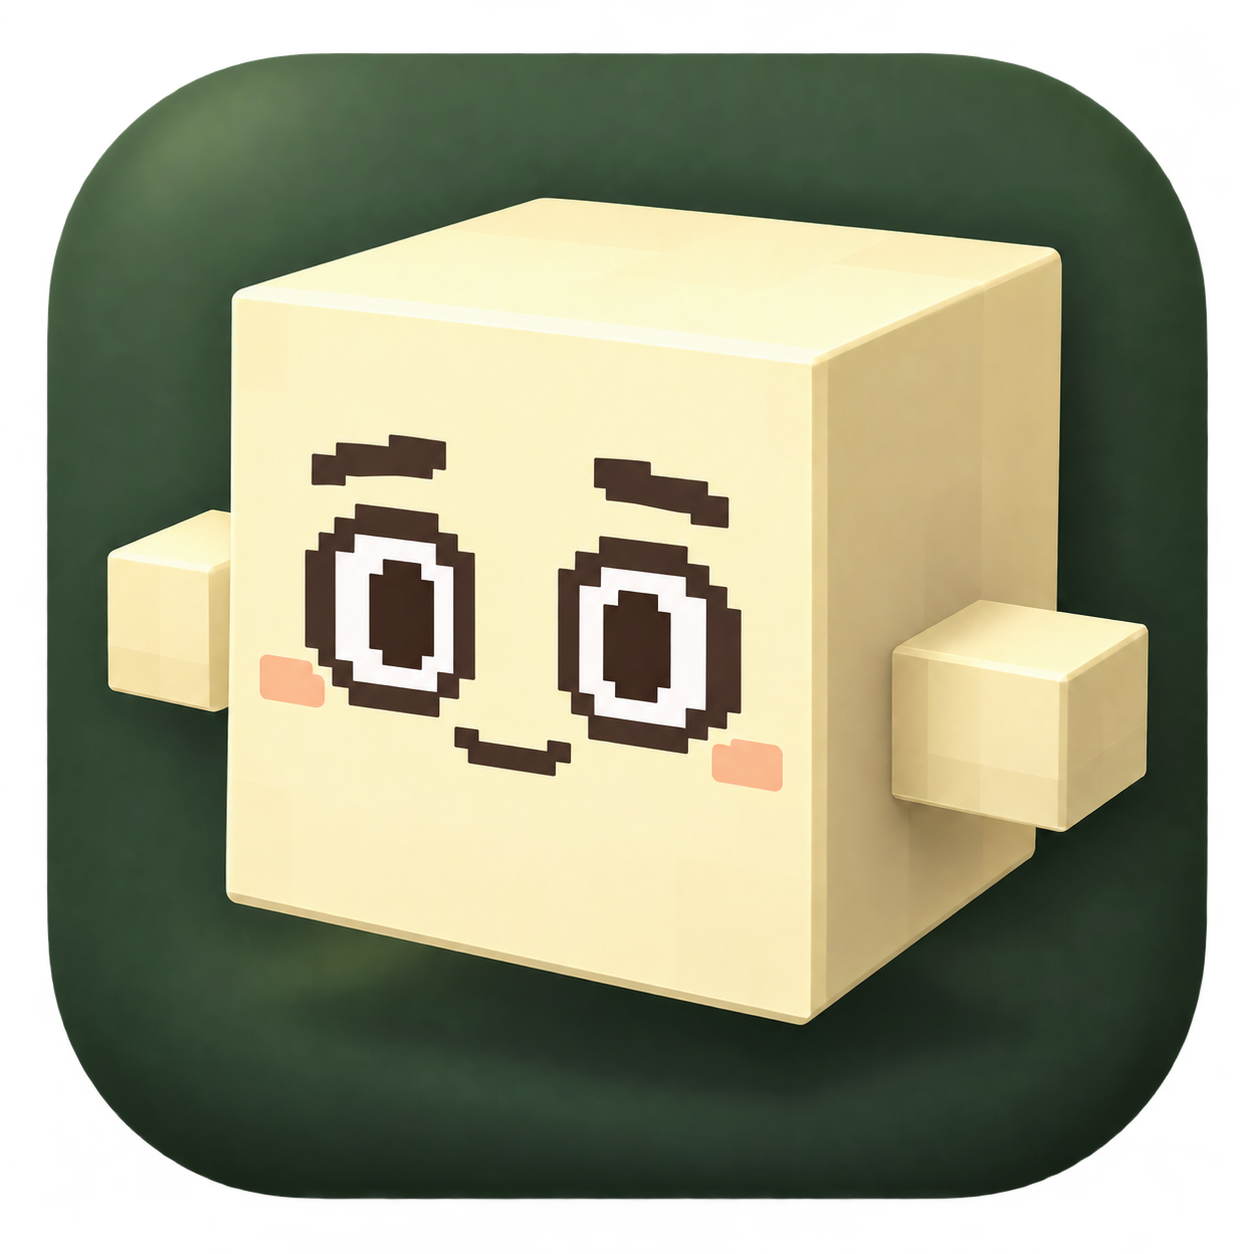
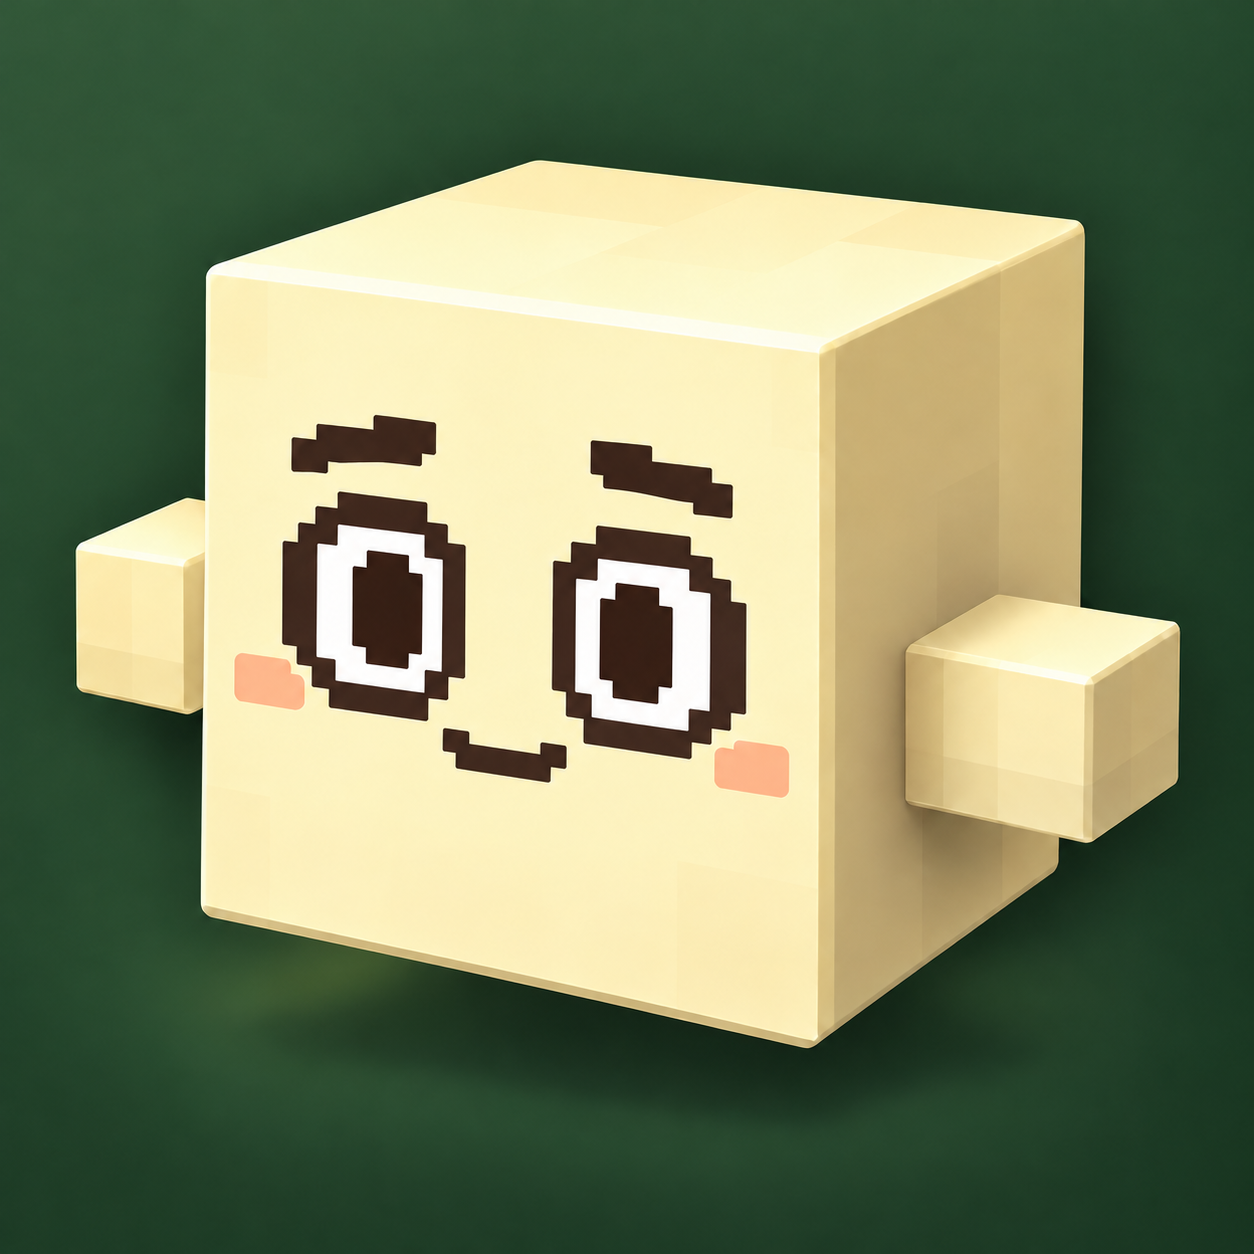
管理アプリの署名を固定してアイコンの余白をなくす

diff --git a/apps/dogido-server-manager/Tools/build_app.py b/apps/dogido-server-manager/Tools/build_app.py
@@ -3,14 +3,40 @@ import argparse
 from pathlib import Path
 import plistlib
 import platform
+import re
 import shutil
 import subprocess
 import tempfile
 
 SOURCE = Path(__file__).resolve().parents[1]
+LOCAL_SIGNING_IDENTITY = "Dogido Local Code Signing"
 
 
-def build(project, destination):
+def resolve_signing_identity(name, output):
+    identities = dict(re.findall(r'\)\s+([0-9A-Fa-f]{40})\s+"([^"]+)"', output))
+    matches = [fingerprint for fingerprint, label in identities.items()
+               if name == label or name.upper() == fingerprint.upper()]
+    if len(matches) != 1:
+        raise SystemExit(
+            f"署名用の証明書を一意に確認できません: {name}。"
+            "キーチェーンアクセスでコード署名用の証明書を一度作成してください。"
+            "一時的な試用のみ --ad-hoc を指定できますが、更新後にmacOSのアクセス確認が再表示されます。"
+        )
+    return matches[0]
+
+
+def signing_key(name, ad_hoc=False):
+    if ad_hoc:
+        print("一時署名でビルドします。更新後にmacOSのアクセス許可が再確認される場合があります。")
+        return "-"
+    result = subprocess.run(
+        ["security", "find-identity", "-p", "codesigning"],
+        check=True, capture_output=True, text=True,
+    )
+    return resolve_signing_identity(name, result.stdout)
+
+
+def build(project, destination, identity=LOCAL_SIGNING_IDENTITY, ad_hoc=False):
     project = project.expanduser().resolve()
     destination = destination.expanduser().resolve()
     if destination.exists():
@@ -19,6 +45,7 @@ def build(project, destination):
                  "dogido-rust/src/server/utterance-view.js"):
         if not (project / path).is_file():
             raise SystemExit(f"本体のファイルがありません: {path}")
+    identity = signing_key(identity, ad_hoc)
     with tempfile.TemporaryDirectory(prefix="dogido-manager-build-") as temporary:
         work = Path(temporary)
         app = work / "ドギド サーバー.app"
@@ -42,12 +69,12 @@ def build(project, destination):
                     "sips", "-z", str(pixels), str(pixels),
                     str(SOURCE / "Resources/dogido-server-icon.png"), "--out", str(iconset / name),
                 ], check=True, stdout=subprocess.DEVNULL)
-        subprocess.run(["iconutil", "-c", "icns", str(iconset), "-o", str(resources / "DogidoServer.icns")], check=True)
+        subprocess.run(["iconutil", "-c", "icns", str(iconset), "-o", str(resources / "DogidoServer-v2.icns")], check=True)
         info = {
             "CFBundleName": "ドギド サーバー", "CFBundleDisplayName": "ドギド サーバー",
             "CFBundleIdentifier": "local.dogido.server-manager", "CFBundleExecutable": "DogidoServerManager",
-            "CFBundlePackageType": "APPL", "CFBundleShortVersionString": "0.1.0", "CFBundleVersion": "1",
-            "CFBundleIconFile": "DogidoServer.icns",
+            "CFBundlePackageType": "APPL", "CFBundleShortVersionString": "0.1.1", "CFBundleVersion": "2",
+            "CFBundleIconFile": "DogidoServer-v2.icns",
             "LSMinimumSystemVersion": "13.0", "NSHighResolutionCapable": True,
             "NSAppTransportSecurity": {"NSAllowsLocalNetworking": True},
             "NSMicrophoneUsageDescription": "ドギドの音声入力で、プレイヤーの声を認識するためにマイクを使います。",
@@ -55,7 +82,7 @@ def build(project, destination):
             "DogidoProjectRoot": str(project),
         }
         (app / "Contents/Info.plist").write_bytes(plistlib.dumps(info))
-        subprocess.run(["codesign", "--force", "--sign", "-", str(app)], check=True)
+        subprocess.run(["codesign", "--force", "--sign", identity, "--timestamp=none", str(app)], check=True)
         subprocess.run(["codesign", "--verify", "--deep", "--strict", str(app)], check=True)
         destination.parent.mkdir(parents=True, exist_ok=True)
         shutil.copytree(app, destination)
@@ -66,5 +93,9 @@ if __name__ == "__main__":
     parser = argparse.ArgumentParser(description=__doc__)
     parser.add_argument("--project-root", type=Path, default=SOURCE.parents[1])
     parser.add_argument("--output", type=Path, required=True)
+    signing = parser.add_mutually_exclusive_group()
+    signing.add_argument("--signing-identity", default=LOCAL_SIGNING_IDENTITY,
+                         help="更新後も同じ証明書を使うコード署名identityの名前またはSHA-1")
+    signing.add_argument("--ad-hoc", action="store_true", help="権限を引き継がない試用専用ビルド")
     args = parser.parse_args()
-    build(args.project_root, args.output)
+    build(args.project_root, args.output, args.signing_identity, args.ad_hoc)

diff --git a/apps/dogido-server-manager/Tests/test_signing.py b/apps/dogido-server-manager/Tests/test_signing.py
@@ -1,0 +1,40 @@
+"""Protect stable application identity across manager updates."""
+import importlib.util
+from pathlib import Path
+import unittest
+from unittest.mock import patch
+
+spec = importlib.util.spec_from_file_location("build_app", Path(__file__).resolve().parents[1] / "Tools/build_app.py")
+builder = importlib.util.module_from_spec(spec)
+spec.loader.exec_module(builder)
+
+
+class SigningTests(unittest.TestCase):
+    first = "1" * 40
+    second = "2" * 40
+
+    def test_named_identity_resolves_exactly_and_deduplicates_policy_sections(self):
+        rows = f'  1) {self.first} "{builder.LOCAL_SIGNING_IDENTITY}"\n'
+        rows += f'  2) {self.second} "Another App"\n'
+        self.assertEqual(builder.resolve_signing_identity(builder.LOCAL_SIGNING_IDENTITY, rows * 2), self.first)
+
+    def test_ambiguous_or_missing_identity_does_not_fall_back_to_ad_hoc(self):
+        rows = f' 1) {self.first} "{builder.LOCAL_SIGNING_IDENTITY}"\n'
+        rows += f' 2) {self.second} "{builder.LOCAL_SIGNING_IDENTITY}"\n'
+        for output in ("0 identities found", rows):
+            with self.subTest(output=output), self.assertRaises(SystemExit):
+                builder.resolve_signing_identity(builder.LOCAL_SIGNING_IDENTITY, output)
+
+    def test_fingerprint_can_disambiguate_a_repeated_name(self):
+        fingerprint = "ABCDEF1234" * 4
+        rows = f' 1) {fingerprint} "Repeated Name"\n 2) {self.second} "Repeated Name"\n'
+        self.assertEqual(builder.resolve_signing_identity(fingerprint.lower(), rows), fingerprint)
+
+    def test_ad_hoc_is_explicit_and_does_not_access_the_keychain(self):
+        with patch.object(builder.subprocess, "run") as run:
+            self.assertEqual(builder.signing_key(builder.LOCAL_SIGNING_IDENTITY, True), "-")
+            run.assert_not_called()
+
+
+if __name__ == "__main__":
+    unittest.main()

diff --git a/apps/dogido-server-manager/Resources/icon-design.md b/apps/dogido-server-manager/Resources/icon-design.md
@@ -1,12 +1,20 @@
 # 管理アプリのアイコン
 
+## 現行版: 外周の透明余白を撤去
+
+2026-10-11、ユーザーの「描画範囲いっぱいにしたい」「周りに透明の枠が入っちゃってる」に合わせ、初稿で指定していた透明余白と角丸の切り抜きを撤回した。おっとりした表情を保ち、背景を画像の四辺・四隅まで伸ばした不透明の正方形を現行PNGとする。ICNS互換のためRGBA形式へ変換し、全画素のalpha=255を確認した。ICNSへの変換は既存ビルド処理を使い、追加の余白を入れない。アイコンのリソース名はv2。
+
+内蔵imagegenによる修正プロンプト:
+
+Use case: precise-object-edit. Edit target: the supplied final Dogido app icon. Fix ONLY the wasted transparent outer border and icon framing. Produce a SQUARE FULL-BLEED OPAQUE icon, with the same dark forest-green background filling every pixel right to all four canvas edges and corners. NO transparency, NO outer padding, NO rounded-corner cutout, NO frame, NO extra border; macOS handles the display shape. Enlarge the existing icon artwork uniformly to use the former transparent margin, while keeping both hands and the entire cube fully visible. Preserve the same creamy yellow cubic 3D Dogido, same two little cuboid hands, same gentle relaxed eyebrows and small warm smile, white-surrounded dark-brown pixel eyes, peach cheeks, three-quarter view, lighting, body proportions and detailed existing image. This is a framing/background extension correction, not a redesign: do not alter the face, pose, palette, character geometry or add anything. The green background must visibly reach the left, right, top and bottom edges, including the four corners. Square 1024x1024 composition, no text or symbols.
+
 ## 採用画像への表情修正プロンプト
 
 Use case: identity-preserve. Edit target: the provided Dogido macOS icon. Change ONLY the facial expression to be calm, gentle, easygoing and sweet: おっとりした、のんびり穏やかな表情. The current eyebrows make him look worried and gloomy; remove that tension. Make the eyebrows low-key, gently arched and almost horizontal, neither steeply sloping nor raised in distress. Let the eyes look relaxed and friendly with slightly softened upper lids, clearly awake and attentive, not sleepy, bored, sly, sad or drooping. Keep both distinctive large white-surrounded dark-brown eyes and their pixel-art shape. Change the small mouth to a subtle warm relaxed smile. Preserve the exact creamy yellow cube body, two cubic hands, peach cheeks, three-quarter camera angle, scale, position, existing green rounded-square background tile, voxel geometry, studio lighting, all colors, and outer transparent margin. No other changes, no text, no extra objects.
 
 2026-10-11、ユーザーの「アイコンのデザインはドギドの３Dボディっぽくして！」に合わせて、内蔵imagegenで制作。
 
-参照は本体の `animation/cube_dogido/texture.png` と `adapter/minecraft-fabric/src/main/resources/assets/dogido/textures/gui/character.png`。前者を3Dボディの配色・顔、後者を顔の補助参照にした。立方体の身体と両側の小さな手を残し、深緑の角丸背景へまとめた。初稿後の「もうちょいおっとり系で」という指示に合わせ、眉を穏やかにして口元へ小さな笑顔を加えた。PNGの外周透過を保持し、ビルド時にmacOS標準のサイズへ縮小してICNSにする。
+参照は本体の `animation/cube_dogido/texture.png` と `adapter/minecraft-fabric/src/main/resources/assets/dogido/textures/gui/character.png`。前者を3Dボディの配色・顔、後者を顔の補助参照にした。初稿では立方体の身体と両側の小さな手を残し、深緑の角丸背景へまとめた。「もうちょいおっとり系で」という指示に合わせ、眉を穏やかにして口元へ小さな笑顔を加えた。初稿の透明余白は上記の現行版で撤去し、ビルド時にmacOS標準のサイズへ縮小してICNSにする。
 
 ## 初稿の生成プロンプト
 

diff --git a/apps/dogido-server-manager/README.md b/apps/dogido-server-manager/README.md
@@ -8,11 +8,16 @@
 
 macOS 13以降とXcode Command Line Toolsを使います。本体の既存 `dogido-llm` 環境・設定・起動ファイルを利用します。リポジトリのルートから実行してください。
 
+初回だけキーチェーンアクセスの「証明書アシスタント」から、名前 `Dogido Local Code Signing`、固有名のタイプ「自己署名ルート」、証明書のタイプ「コード署名」で、このMac用の証明書をログインキーチェーンへ作成します。以後も同じ証明書を使い、更新をまたいでmacOSのアクセス許可を引き継ぎます。既存の署名証明書を使う場合は `--signing-identity` に名前またはSHA-1を指定できます。
+
 ```sh
 python3 apps/dogido-server-manager/Tools/build_app.py --output 'apps/ドギド サーバー.app'
 python3 apps/dogido-server-manager/Tools/run_tests.py
+python3 apps/dogido-server-manager/Tests/test_signing.py
 ```
 
 ビルドは既存アプリを上書きしません。更新時は別の出力名を指定します。アプリにはビルド元フォルダを登録するため、本体を移動した場合は再ビルドします。検査は一時フォルダと空きポートの模擬プロセスだけを起動・停止します。
+
+署名証明書が未作成・曖昧な場合はビルドを中止します。一時的な試用では `--ad-hoc` を明示できますが、この方式では更新後に書類フォルダなどのアクセス許可が再確認される場合があります。固定署名へ切り替えた初回も許可し直しが必要です。
 
 アプリから起動したログは `.dogido_tools/server-manager/logs/` に追記します。発言履歴は既存 `/dogido?view=utterances` を使い、本体再起動時に消える表示履歴です。仕様と検証範囲は[実装記録](../../docs/2026-10-11-server-manager-and-checks.md)を参照してください。
